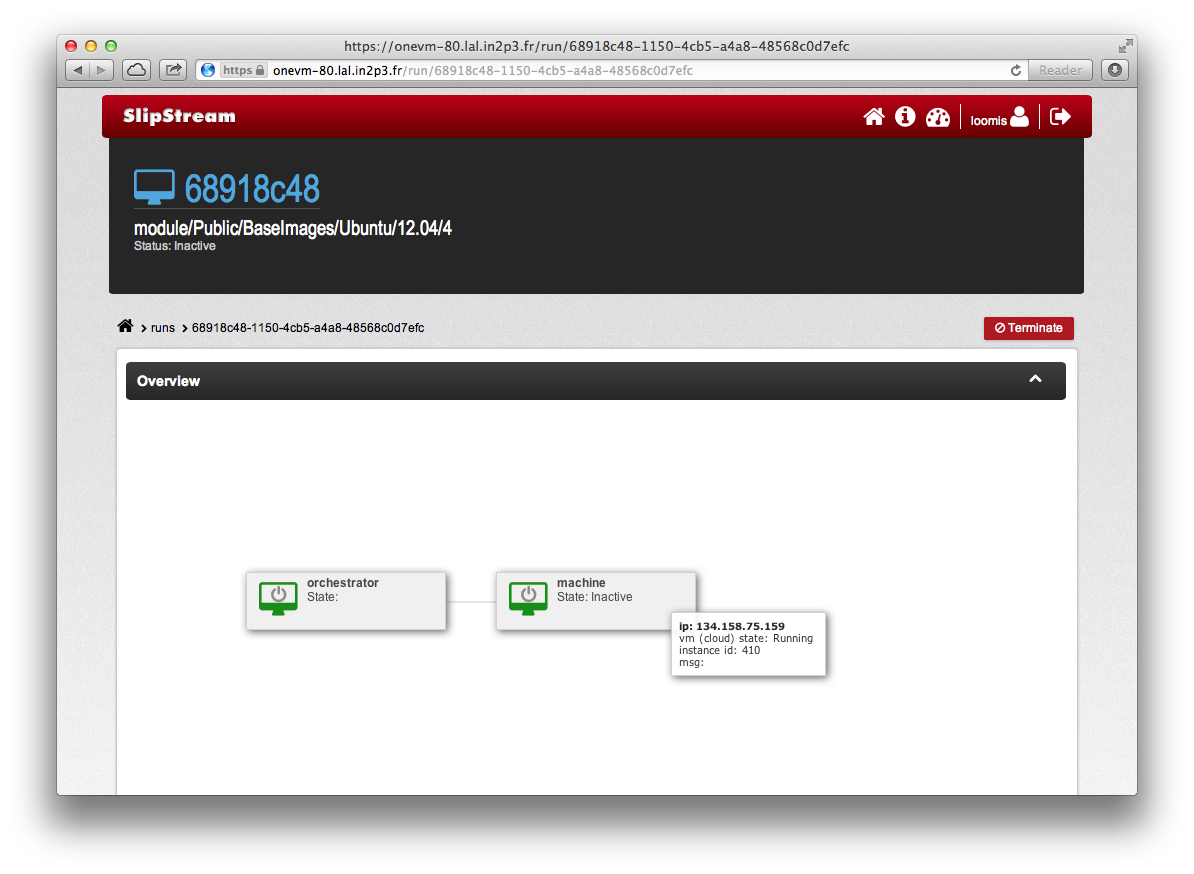
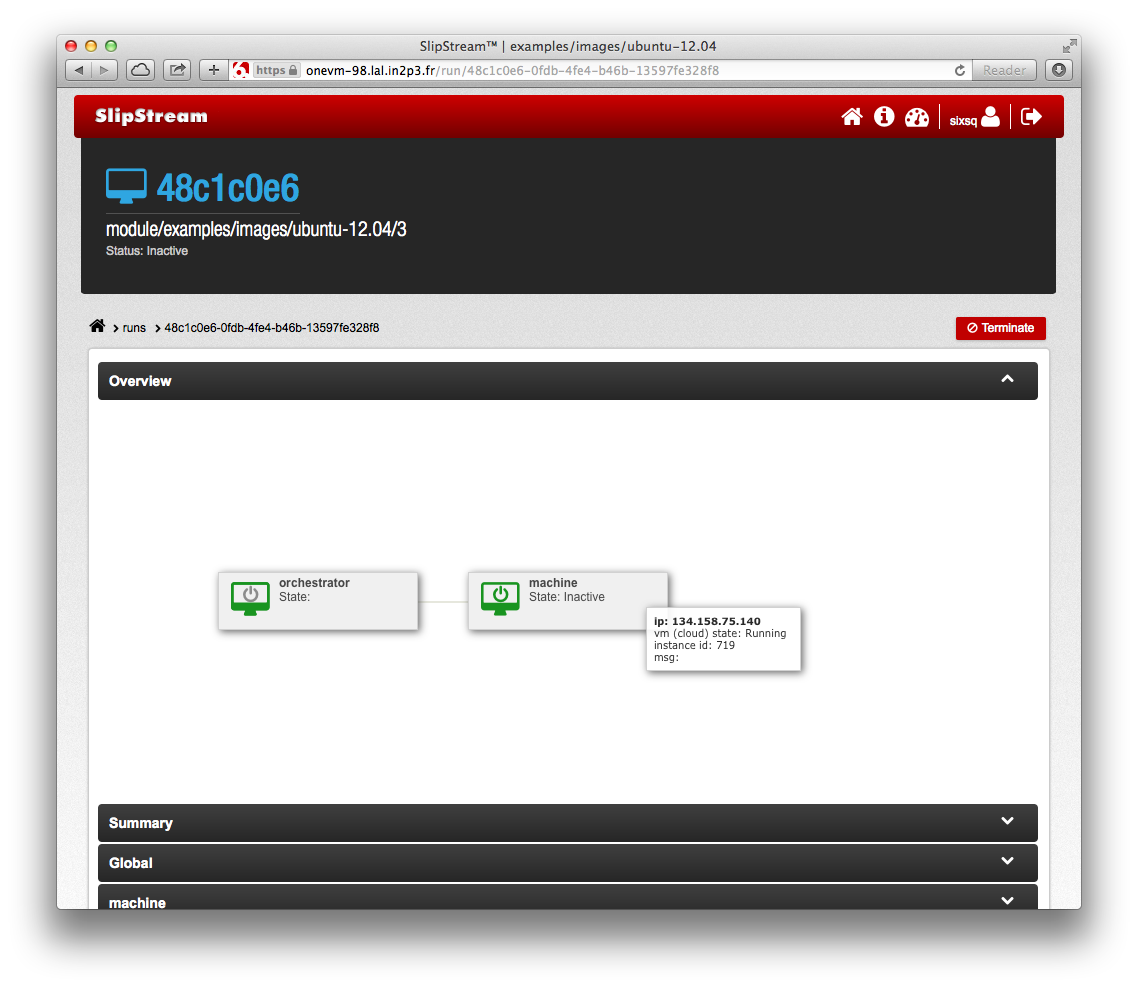
update images and text for latest changes

diff --git a/docs/tutorial/src/main/markdown/05-end-users.md b/docs/tutorial/src/main/markdown/05-end-users.md
@@ -9,11 +9,11 @@ as batch clusters.
 
 At its simplest, SlipStream™ can be used to launch individual virtual
 machines.  To show how this is done, navigate to the
-"Public/BaseImages" module.  You will see a set of minimal images that
+"examples/images" module.  You will see a set of minimal images that
 can be used directly or as part of a coordinated deployment.
 
-Descend into the "Ubuntu/12.04" module where you should see a
-screenshot like the following.
+Clicking on the "ubuntu-12.04" module, you should see a screenshot
+like the following.
 
 ![Ubuntu Base Image](images/screenshot-ubuntu.png)
 
@@ -32,19 +32,23 @@ To see the status of the virtual machine, just hover over the box
 representing the virtual machine.  Once it is in the "Running" state
 on the cloud, it can be accessed directly via SSH:
 
-    $ ssh root@134.158.75.159
+    $ ssh root@134.158.75.140
     Welcome to Ubuntu 12.04 LTS (GNU/Linux 3.2.0-24-generic x86_64)
     ...
     $
 
-From here, you can do install and configure any services that you
-would like.  For example, let's install a web server by hand and show
-that it works. 
+From here, you can install and configure any services that you would
+like.  For example, let's install a web server by hand and show that
+it works.
 
 To install the web server, just install one via the `apt-get`
 command. 
 
-    $ apt-get install apache2
+    $ apt-get update
+    Get:1 http://security.ubuntu.com precise-security Release.gpg [198 B]
+    ...
+
+    $ apt-get -y install apache2
     ...
     Unpacking apache2 (from .../apache2_2.2.22-1ubuntu1_amd64.deb) ...
     ...
@@ -73,11 +77,68 @@ You can stop the machine directly through the SlipStream™ interface.
 On the run page, just click on the "Terminate" button.  This will
 shutdown the virtual machine and release the associated resources.
 
+**Warning**: The image creation, package, and deployment recipes are
+**not invoked** when starting an image in this way.  This type of
+deployment is only useful for getting quick access to a machine for
+interactive testing.
+
+## Run an R Analysis Server
+
+Advanced users and administrators can define appliances and services
+that can be easily deployed by others.  One example is an RStudio
+deployment that creates an R analysis server with a web browser
+interface.  More information about RStudio can be found on their [web
+site][rstudio].
+
+Within SlipStream™, navigate to the "examples/tutorials/rstudio"
+module.  This module launches the predefined "rstudio-appliance" and
+runs the deployment script to configure the machine.  The software
+uses the user accounts defined on the machine for accessing the
+server.  To remain secure, the deployment dynamically creates a user
+account with a random password when the machine is deployed.  The
+username and password are communicated to the user through the
+SlipStream™ interface.
+
+From the deployment module, click on the "Run" button to start.  This
+will start an "orchestrator" to manage the deployment. The
+orchestrator will then deploy the RStudio server.  You will see the
+progress of the deployment in the "Run" dashboard for the deployment.
+Once the server has been fully deployed, the message in the deployment
+should change to "RStudio Server Ready!".
+
+![RStudio Ready for Use](images/screenshot-rstudio-ready.png)
+
+At this point, you can access the server via a web browser.  You can
+find the address for the machine by hovering over the RStudio
+deployment box.  You will be greeted by a login page requiring a
+username and password.
+
+You can find the credentials to use in the published deployment
+parameters.  Open the accordian section titled "rstudio.1"; these are
+the parameters tied to the RStudio server.  In these parameters, there
+are two ("rstudio_user" and "rstudio_pswd") that provide the
+necessary credentials.  Take a look at the following screenshot.
+
+![RStudio Login Credentials](images/screenshot-rstudio-parameters.png)
+
+Use those credentials to log into the RStudio web interface and you
+should see the RStudio interface.  You can now use the deployed
+machine for doing R analyses or just to play around.  Try out the
+graphics demo by typing "demo(graphics)" at the console!
+
+![RStudio Interface](images/screenshot-rstudio-interface.png)
+
+To terminate the machine, you can just click the "Terminate" button in
+the SlipStream™ interface.  Remember to save any information or data
+you created outside of the machine before terminating it.
+
+
 ## Deploy a Cluster
 
-While it is interesting to use SlipStream™ to deploy virtual machines,
-especially when dealing with multiple cloud infrastructures, it is
-even more appealing to deploy complete computing platforms.
+While it is interesting to use SlipStream™ to deploy virtual machines
+and appliances, especially when dealing with multiple cloud
+infrastructures, it is even more appealing to deploy complete
+computing platforms.
 
 Scientific computing often requires the deployment of a dedicated
 batch cluster for scientific data analysis.  Procuring the necessary
@@ -85,13 +146,65 @@ hardware, initializing the machines, and configuring a batch system
 can be a long and time-consuming process.  With SlipStream™ and the
 cloud, this can be done quickly and easily. 
 
-One of the predefined deployments is a Torque cluster.  The deployment
-consists of a head node and a collection of worker nodes.  Typically,
-the user will submit jobs to the head node which will then be
-dispatched to and run by a worker node.
+Numerous different software distributions exist for implementing a
+batch cluster.  Nonetheless, they all work similarly.  The cluster
+deployment consists of a master and a collection of worker nodes.
+Typically, the user will submit jobs to the master.  Those jobs will
+then be dispatched to and run by a worker node, with the results sent
+back to the master.
 
+The tutorials contain an example cluster deployment based on Torque.
+More information on Torque can be found on [their website][torque].
 Let's start a cluster and verify that it works.  Navigate to the
-"Public/Tutorials/Cluster" module. 
+"Public/Tutorials/torque" module. 
 
-**TO BE COMPLETED...**
+Click on the "Run" button to deploy a cluster with the default
+configuration of one master node and two worker nodes.  Once the
+deployment has completed the setup, you will be able to log into the
+master node as the user "tuser".
 
+    $ ssh tuser@134.158.75.99 
+
+The deployment will have created the "tuser" account and configured it
+so that you can log in with your standard SSH key.  
+
+Once logged in, you can verify that cluster is correctly configured.
+Use the command `pbsnodes` to see the state of all of the workers.  
+
+    $ pbsnodes -a
+    
+    $ TO BE COMPLETED...
+
+You will see that two worker nodes are available and free.  The master
+node is not configured to run jobs, so it will be marked as "down".
+
+To test that the cluster works correctly, create a job script
+(`job.sh`) with contents like the following:
+
+    #!/bin/bash
+    hostname -f
+    date
+    sleep 20
+    date
+
+Then launch a number of these jobs and follow their progress on the
+cluster. 
+
+    $ for i in {1..20}; do qsub job.sh; done
+    
+    $ qstat
+    $ TO BE COMPLETED...
+
+You should see the jobs gradually advance from queued, to running, and
+then to the completed state.  As the jobs complete, you should see
+files containing the stderr and stdout of the job in your directory.
+The stderr files should be empty and the stdout files should contain
+the hostname and two dates. 
+
+As usual, the full cluster can be torn down by clicking on the
+"Terminate" button.  Save any results you want to keep outside of the
+deployment before shutting down the cluster.
+
+
+[rstudio]: http://www.rstudio.com
+[torque]: http://www.adaptivecomputing.com/products/open-source/torque/

diff --git a/docs/tutorial/src/main/markdown/03-creating-account.md b/docs/tutorial/src/main/markdown/03-creating-account.md
@@ -7,10 +7,10 @@ private and to protect their cloud credentials.
 
 ## Registration
 
-You can register for a SlipStream™ account directly through the web
-interface.  On the login page, open the registration section, fill in
-the form, agree to the Terms of Service, and click the "register"
-button. 
+If enabled by the administrator, you can register for a SlipStream™
+account directly through the web interface.  On the login page, open
+the registration section, fill in the form, agree to the Terms of
+Service, and click the "register" button.
 
 The registration process will validate your email address by sending
 you a message with a confirmation link.  Visit the link and then wait
